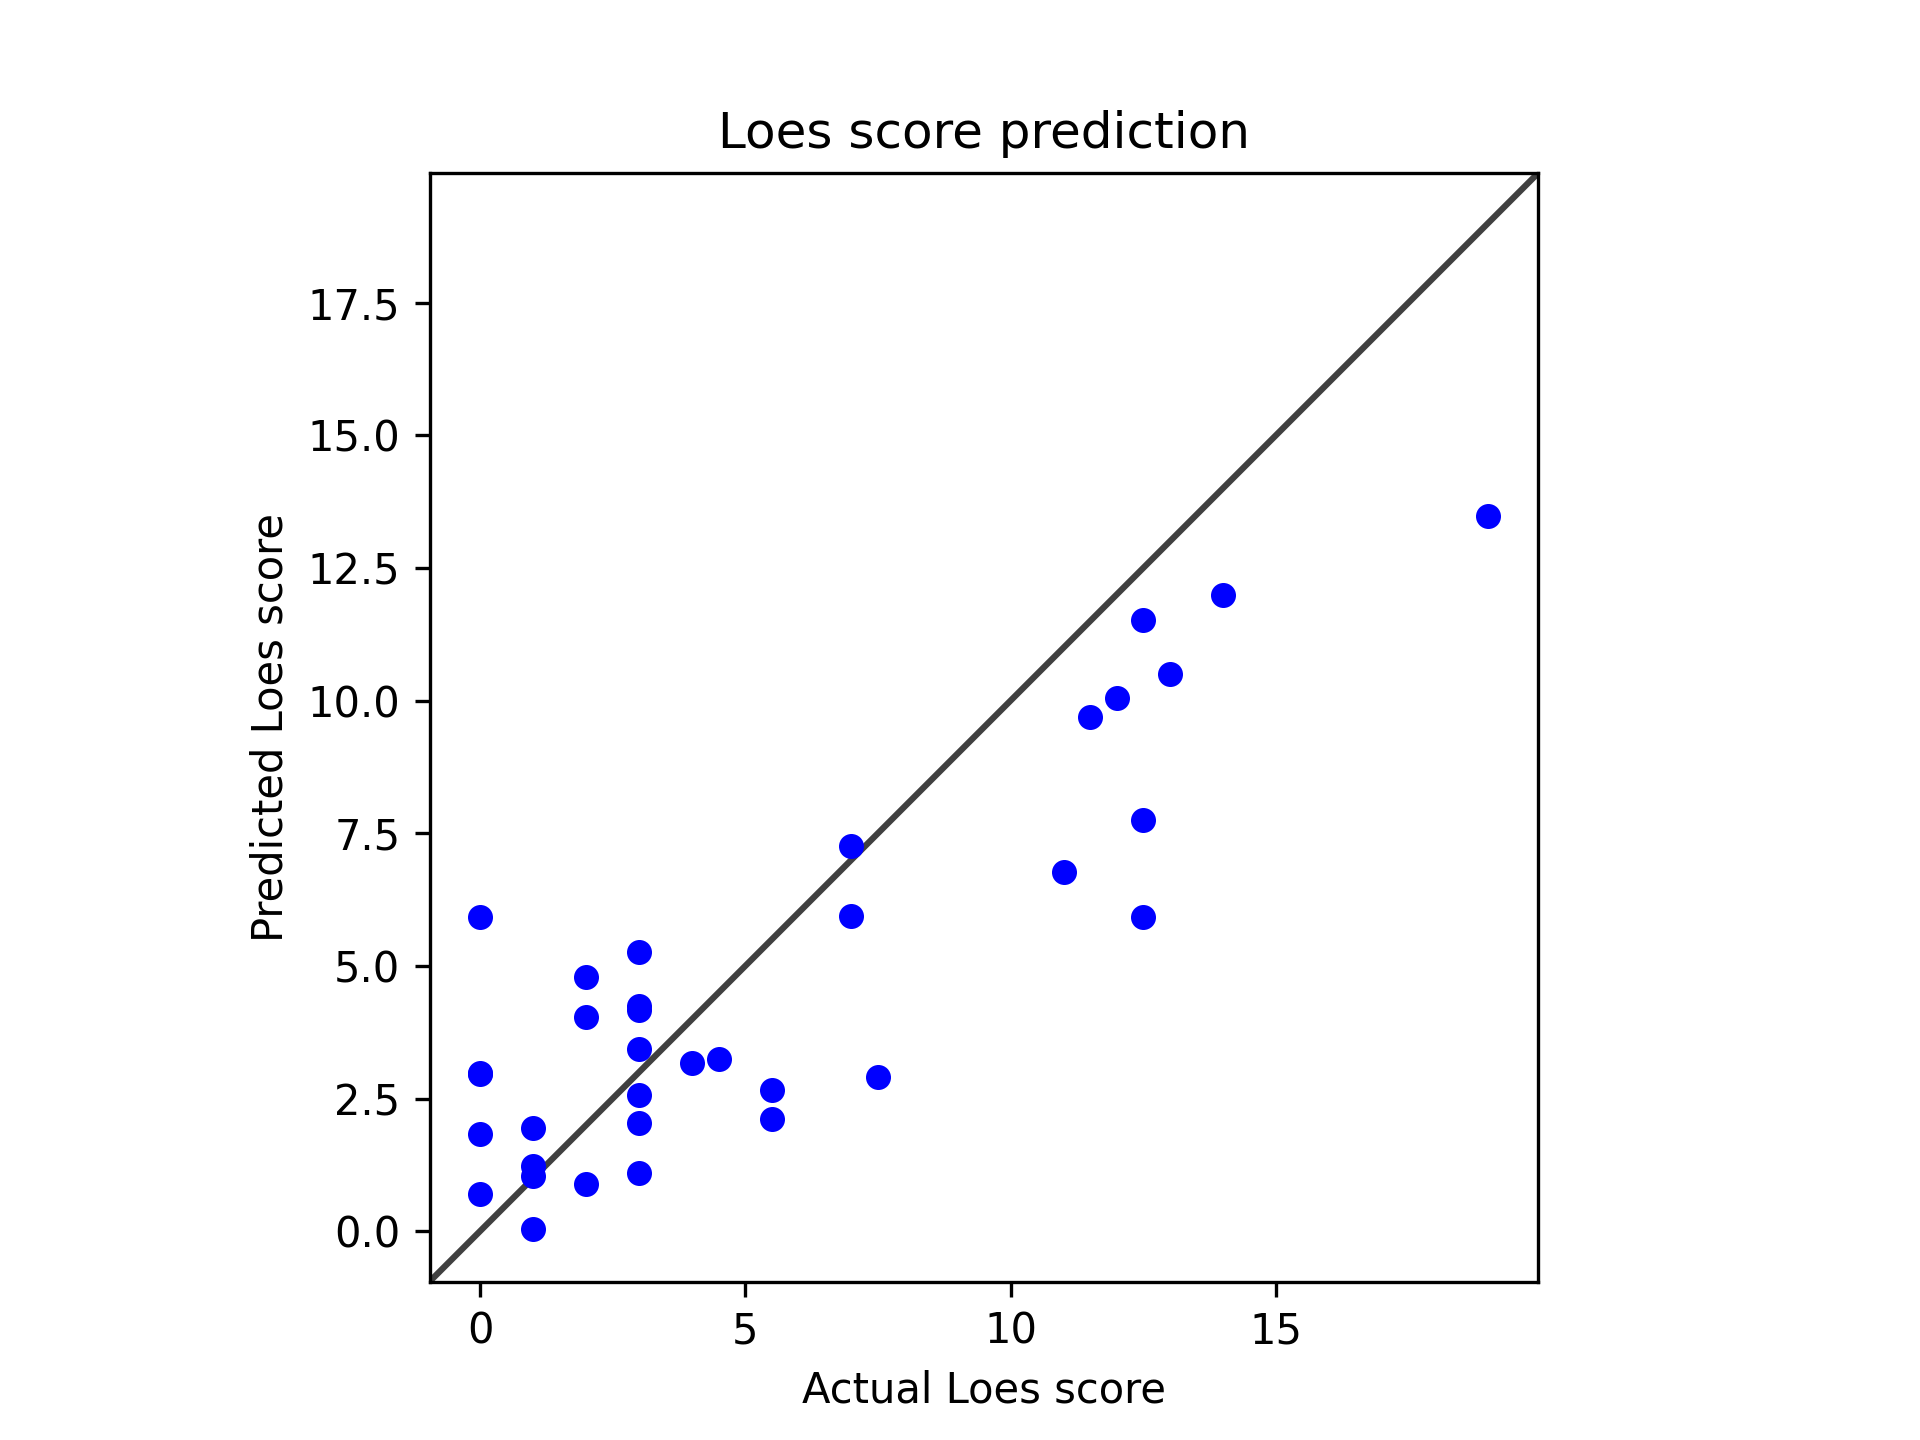
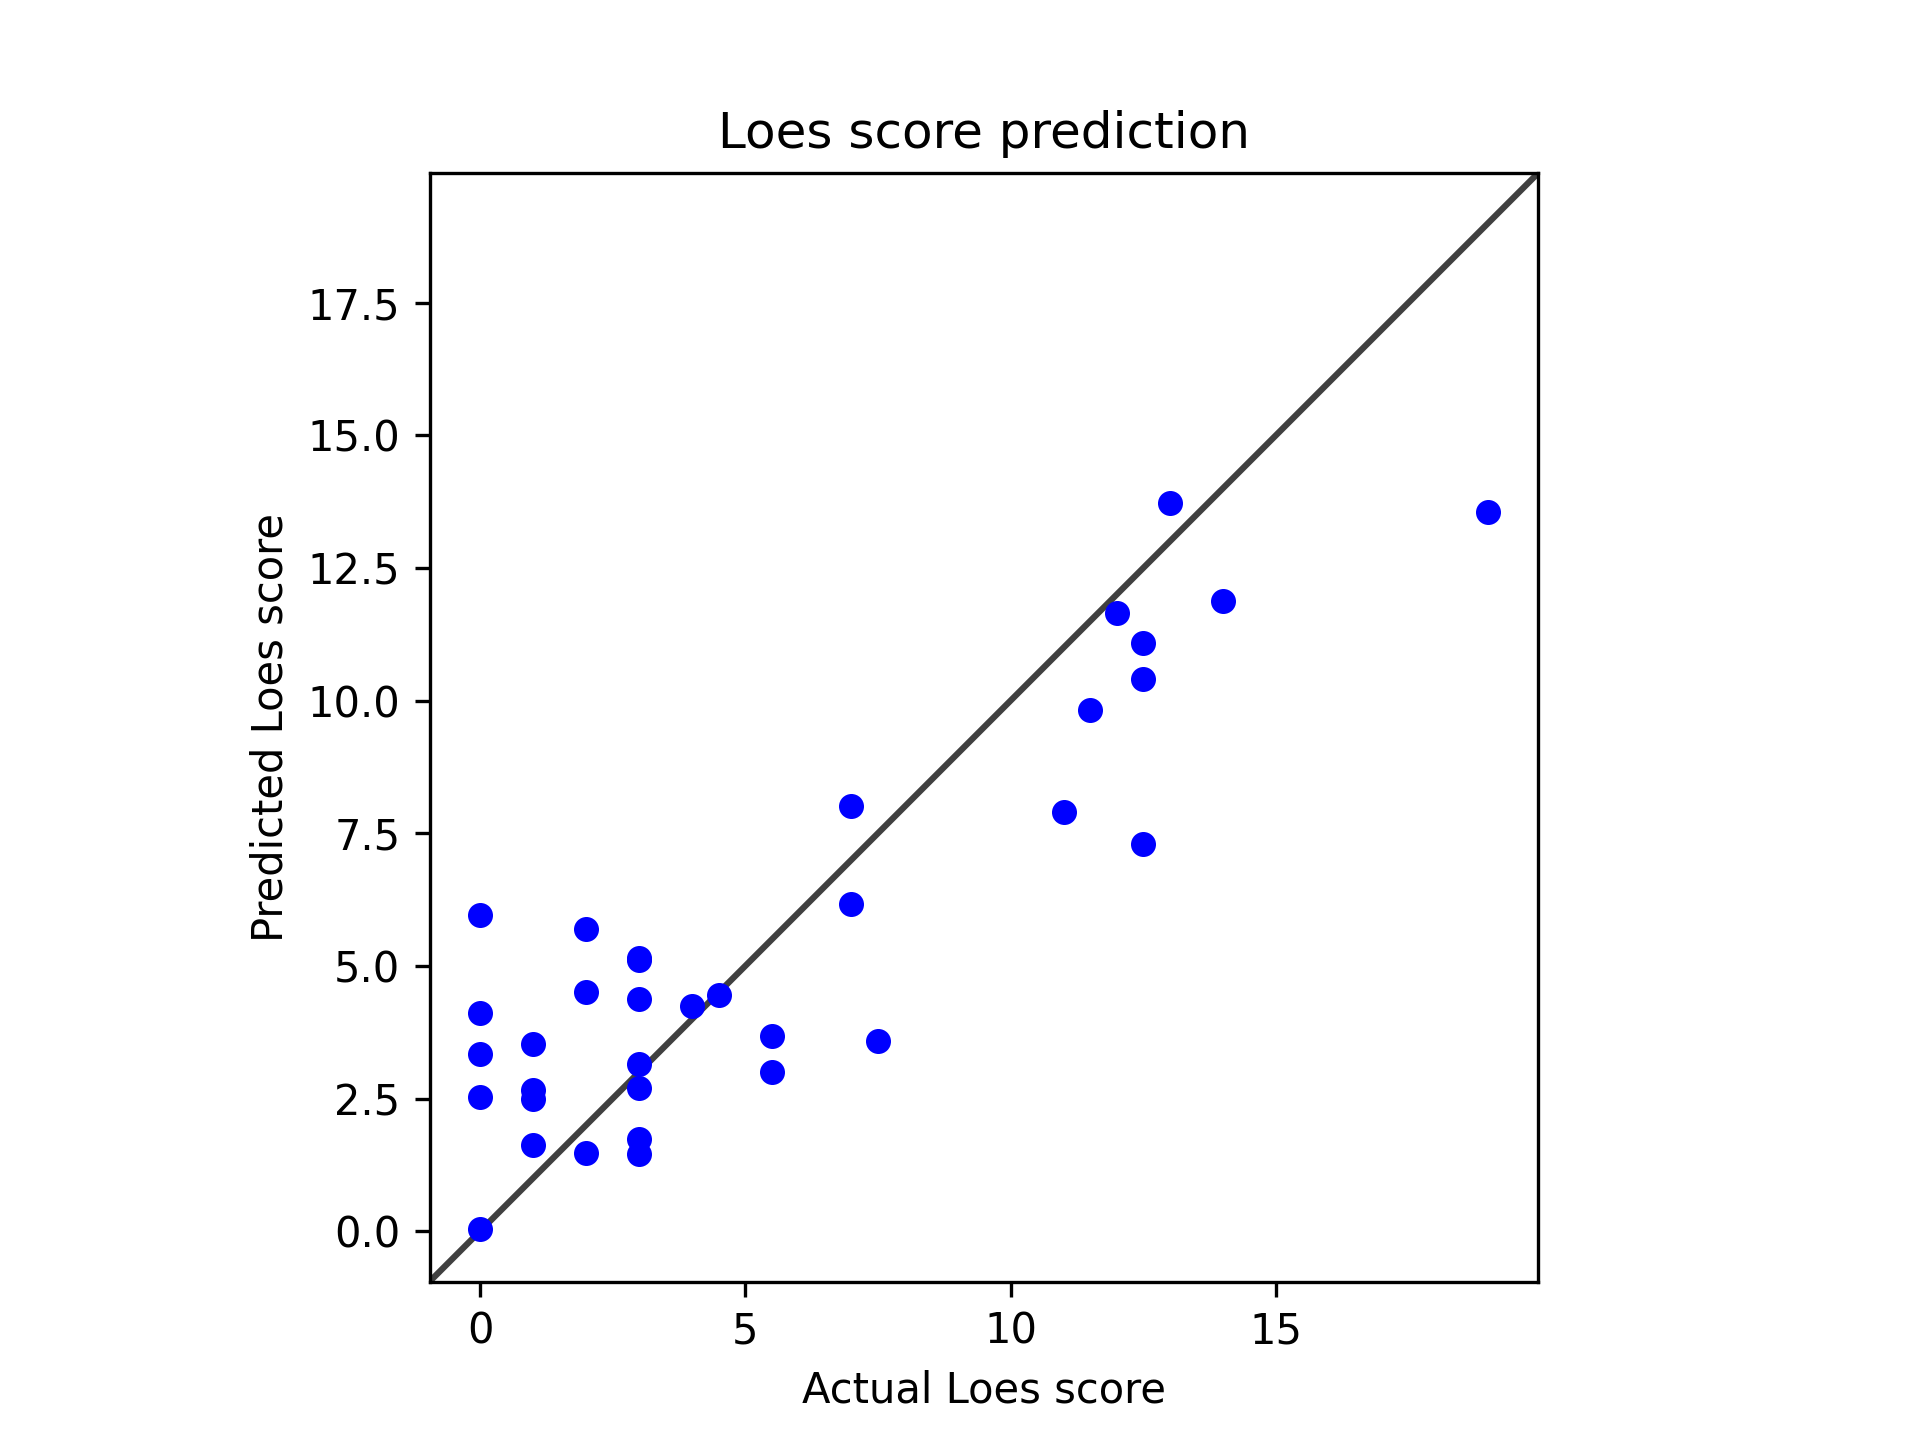
Re-ran for checking.

diff --git a/doc/models/model20/model20.md b/doc/models/model20/model20.md
@@ -24,3 +24,57 @@ Used one cycle scheduler.
 * model: */home/feczk001/shared/data/LoesScoring/loes_scoring_20.pt*
 * Pearson correlation p-value: 5.259068091329828e-11
 * Spearman correlation p-value: 2.8141077950001913e-06
+
+These are **excellent results** for a medical prediction model! Let me break down what each metric means and why these numbers indicate strong model performance:
+
+## **Results Analysis**
+
+### \U0001f4ca **Standardized RMSE: 0.495**
+- **What it means**: On average, predictions deviate by ~0.49 standard deviations from actual values
+- **Assessment**: **Very Good** - Values below 0.5 are typically considered strong performance
+- **Context**: For Loes scores (likely ranging 0-34), this suggests precise predictions
+
+### \U0001f4c8 **Correlation Coefficient: 0.880**
+- **What it means**: 88% linear relationship between predicted and actual values
+- **Assessment**: **Excellent** - This is considered very strong correlation
+- **Interpretation**: Your model captures the underlying patterns very well
+
+### \U0001f52c **Statistical Significance**
+- **Pearson p-value: 3.39e-12** (highly significant, p < 0.001)
+- **Spearman p-value: 6.97e-07** (highly significant, p < 0.001)
+- **Assessment**: **Outstanding** - Results are statistically robust, not due to chance
+
+## **Performance Benchmarks**
+
+| Metric | Your Result | Benchmark |
+|--------|-------------|-----------|
+| Correlation | 0.880 | >0.8 = Excellent |
+| RMSE (standardized) | 0.495 | <0.5 = Very Good |
+| P-values | <1e-6 | <0.05 = Significant |
+
+## **What This Means Clinically**
+
+1. **High Predictive Accuracy**: The model can reliably predict Loes scores from MRI scans
+2. **Clinical Utility**: R² \u2248 0.77 means ~77% of variance in Loes scores is explained by your model
+3. **Statistical Confidence**: Extremely low p-values indicate the relationship isn't random
+
+## **Comparison Context**
+
+For medical imaging AI models:
+- **Good**: Correlation > 0.7
+- **Very Good**: Correlation > 0.8  \u2190 **You're here**
+- **Excellent**: Correlation > 0.85
+- **Outstanding**: Correlation > 0.9
+
+## **Next Steps to Consider**
+
+1. **Validation**: Test on completely independent dataset
+2. **Clinical Validation**: Compare with radiologist inter-rater reliability
+3. **Error Analysis**: Examine cases where predictions differ most from actual scores
+4. **Confidence Intervals**: Add prediction uncertainty estimates
+
+## **Bottom Line**
+
+These results suggest your deep learning model is performing at a **clinically relevant level** for automated Loes scoring. The combination of low RMSE, high correlation, and strong statistical significance indicates a robust, reliable model that could potentially assist radiologists in clinical practice.
+
+**Grade: A-** (Very strong performance with room for minor improvements)

diff --git a/doc/regression.md b/doc/regression.md
@@ -9,6 +9,26 @@ The code trains a ResNet model to automatically predict Loes scores from MRI ima
 
 ## How to run it:
 
+### First simple run
+
+1. `ssh -Y agate`
+2. Change directory to the *scripts/training/regression* folder.  For example:
+    
+        cd /users/9/reine097/projects/loes-scoring-2/scripts/training/regression/
+
+3. You will be running the [loes-scoring-training_model_agate_20.sh](../scripts/training/regression/loes-scoring-training_model_agate_20.sh) file.  This generates the best model found so far.
+
+        sbatch 
+
+4. You should get results similar to this:
+
+        standardized_rmse: 0.4945931960918837
+        correlation_coefficient: 0.8798527874279112
+        Pearson correlation p-value: 3.3864976150791956e-12
+        Spearman correlation p-value: 6.972813235748796e-07
+
+![Actual versus predicted Loes scores](../doc/models/model20/model20.png)
+
 Inputs:
 
 * Spreadsheet (CSV file).  Must contain the following columns:
